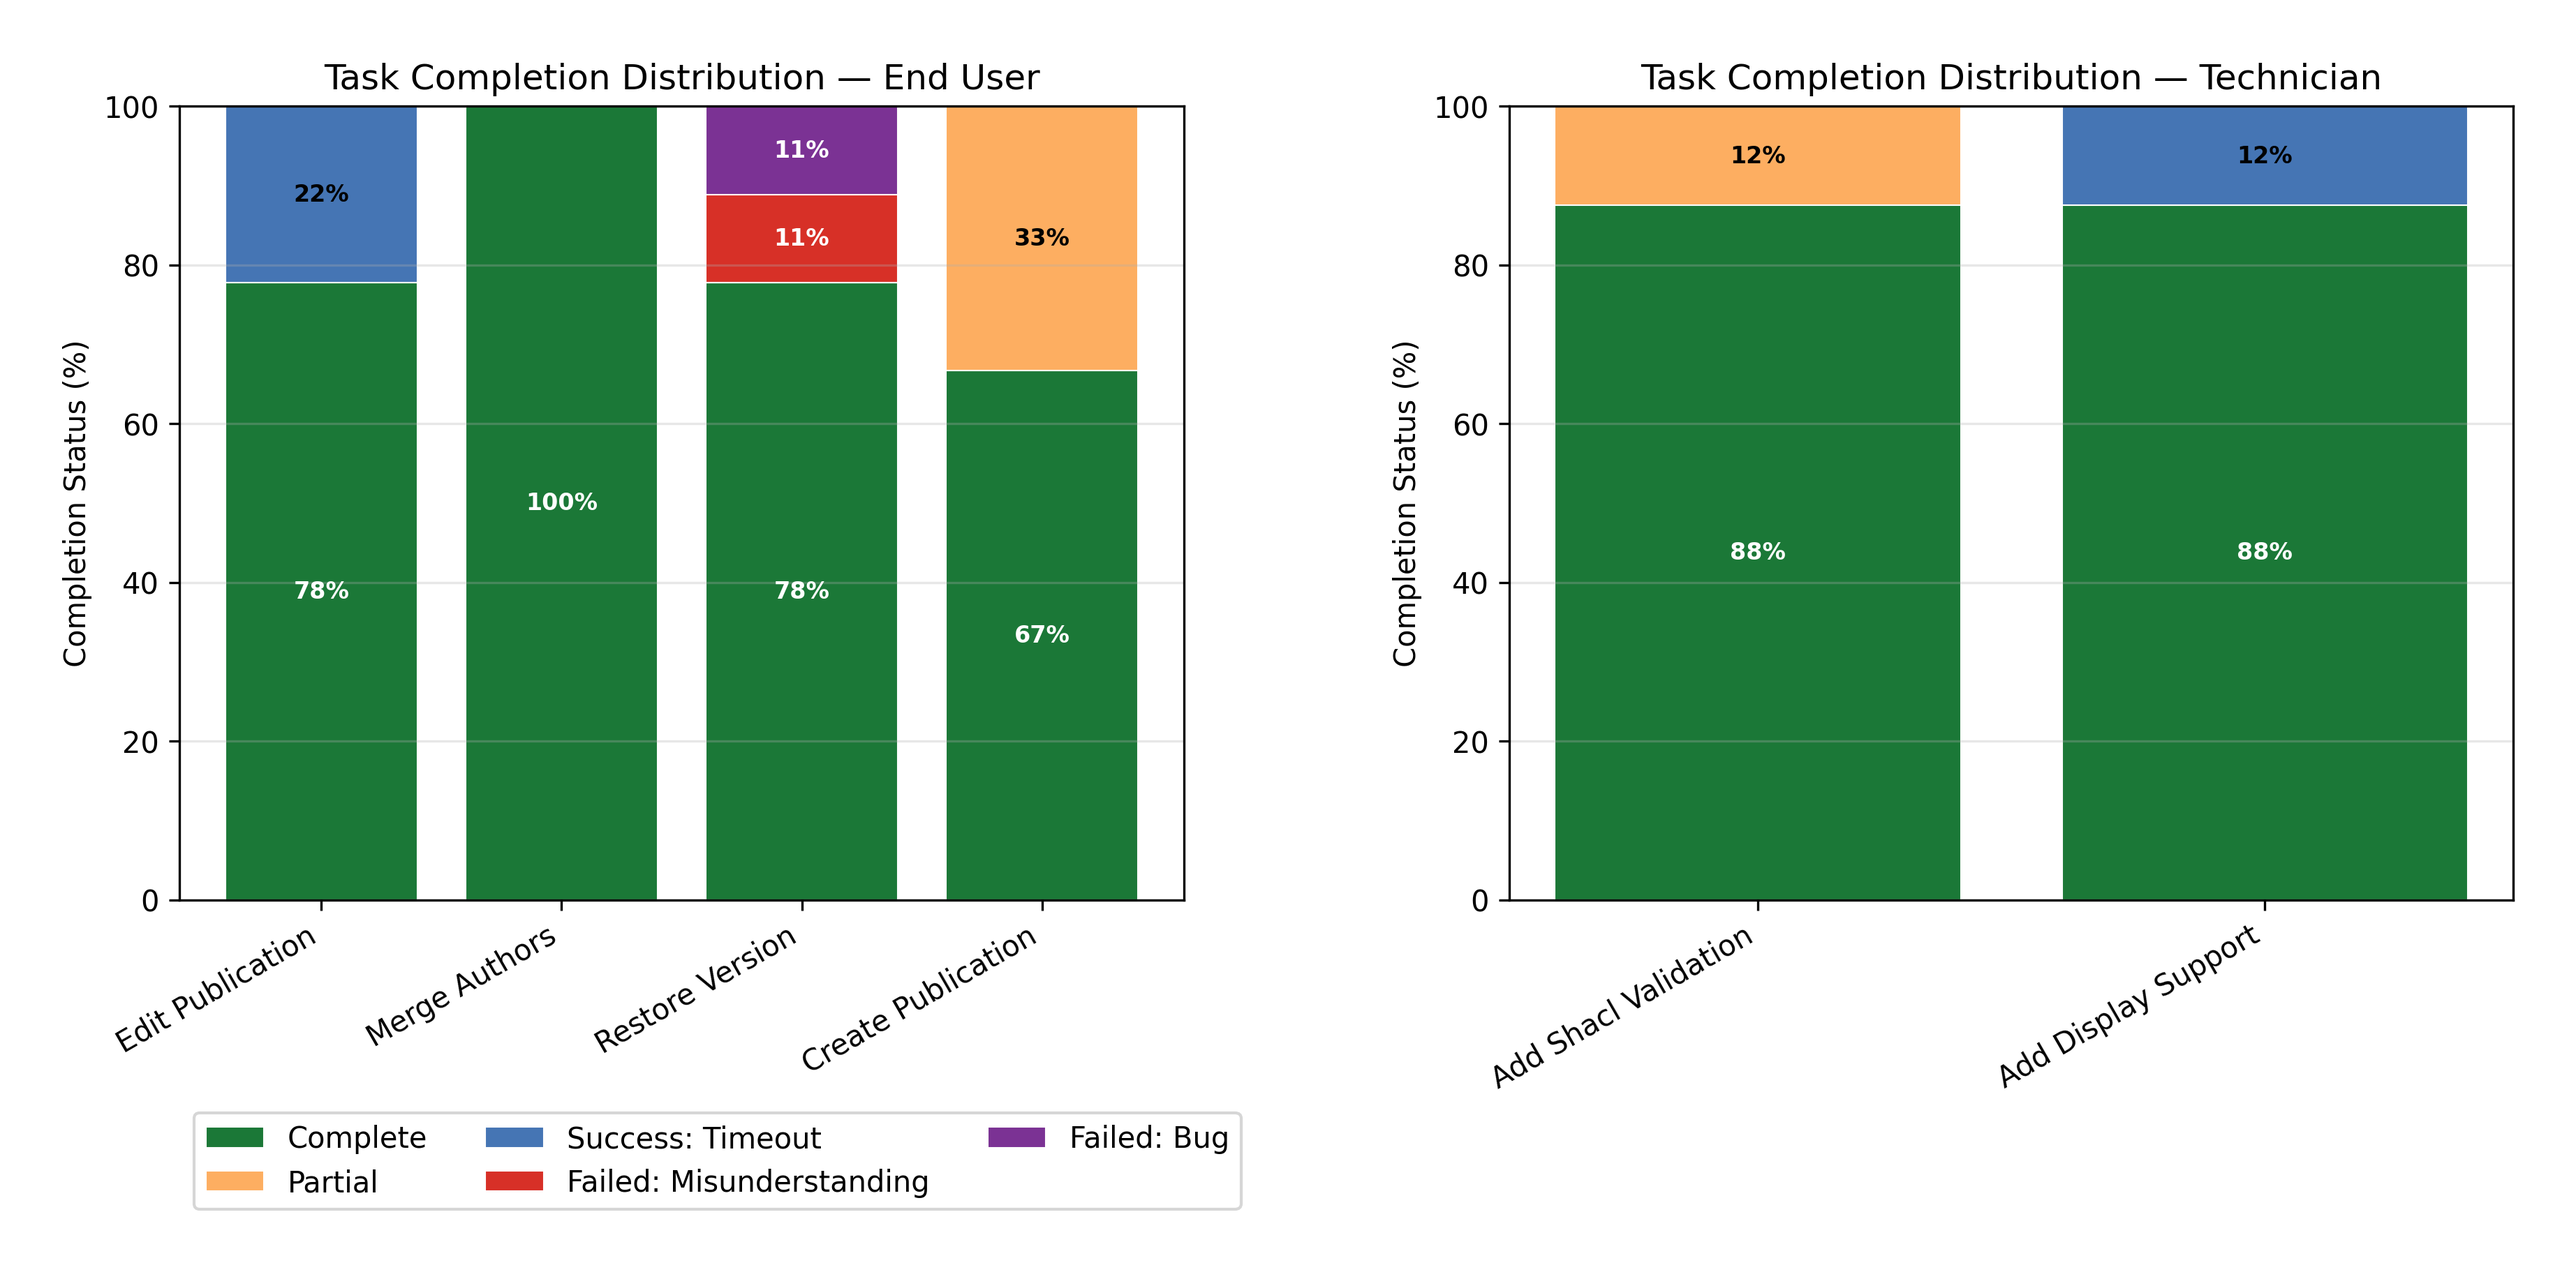
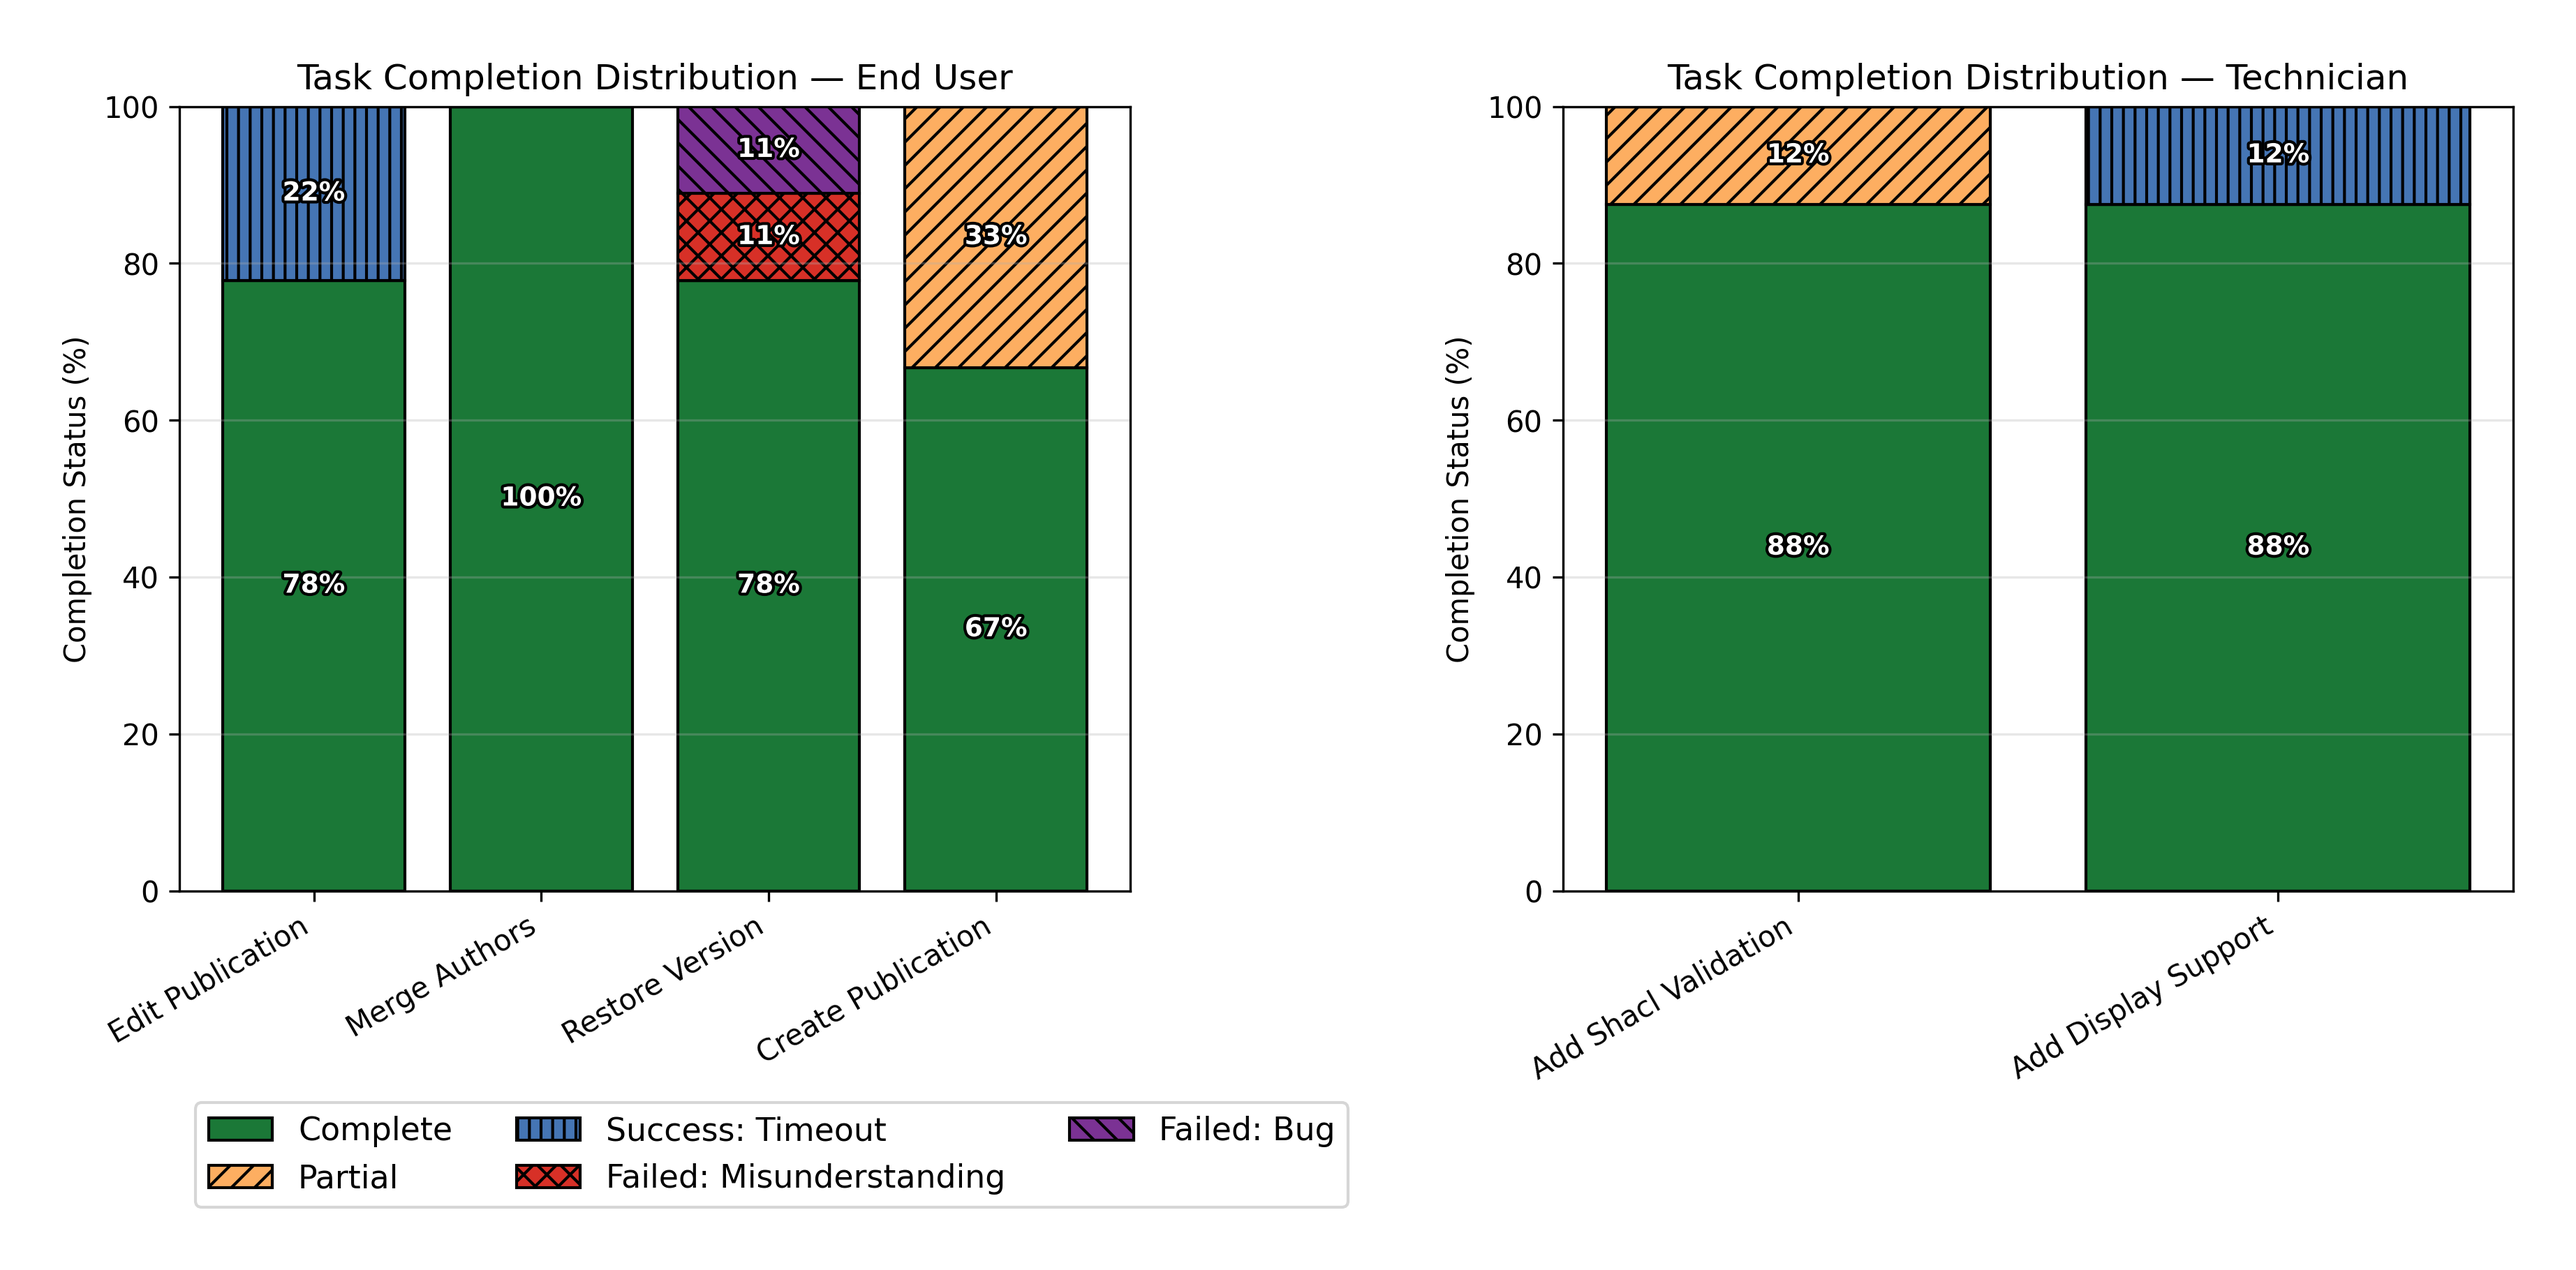
fix(user-testing): improve task success rate chart print readability
Add visual patterns (hatches) to stacked bars for better grayscale
distinguishability when printed. Enhance text readability with stroke
effect and increase legend font size.

diff --git a/user_testing/analysis_software/task_plots.py b/user_testing/analysis_software/task_plots.py
@@ -4,6 +4,7 @@ from pathlib import Path
 from typing import List
 
 import matplotlib.pyplot as plt
+from matplotlib import patheffects as pe
 import numpy as np
 import pandas as pd
 
@@ -66,6 +67,14 @@ def plot_success_rates(df: pd.DataFrame, output_dir: Path):
         'failed_bug': '#7b3294'
     }
 
+    status_hatches = {
+        'complete': '',
+        'partial': '///',
+        'success_timeout': '|||',
+        'failed_misunderstanding': 'xxx',
+        'failed_bug': '\\\\\\'
+    }
+
     status_labels = {
         'complete': 'Complete',
         'partial': 'Partial',
@@ -125,19 +134,26 @@ def plot_success_rates(df: pd.DataFrame, output_dir: Path):
 
         for status in status_order:
             values = sub[status].values
-            ax.bar(x, values, bottom=bottom,
-                   color=status_colors[status],
-                   label=status_labels[status],
-                   edgecolor='white', linewidth=0.5)
+            bars = ax.bar(x, values, bottom=bottom,
+                         color=status_colors[status],
+                         label=status_labels[status],
+                         edgecolor='black', linewidth=1.0,
+                         hatch=status_hatches[status])
+
+            # Set hatch color to be less intrusive
+            for bar in bars:
+                bar.set_edgecolor('black')
 
             # Add percentage labels for segments >= 5%
             for j, val in enumerate(values):
                 if val >= 5.0:
                     y_pos = bottom[j] + val / 2
+                    # Use white text with black outline for better visibility
                     ax.text(j, y_pos, f'{val:.0f}%',
                            ha='center', va='center',
-                           fontsize=8, fontweight='bold',
-                           color='white' if status in ['complete', 'failed_misunderstanding', 'failed_bug'] else 'black')
+                           fontsize=9, fontweight='bold',
+                           color='white',
+                           path_effects=[pe.withStroke(linewidth=2, foreground='black')])
 
             bottom += values
 
@@ -150,7 +166,7 @@ def plot_success_rates(df: pd.DataFrame, output_dir: Path):
 
         # Add legend only to first subplot
         if i == 0:
-            ax.legend(loc='upper left', bbox_to_anchor=(0, -0.25), ncol=3, frameon=True)
+            ax.legend(loc='upper left', bbox_to_anchor=(0, -0.25), ncol=3, frameon=True, fontsize=11)
 
     fig.tight_layout()
     out = output_dir / "task_success_rates.png"
